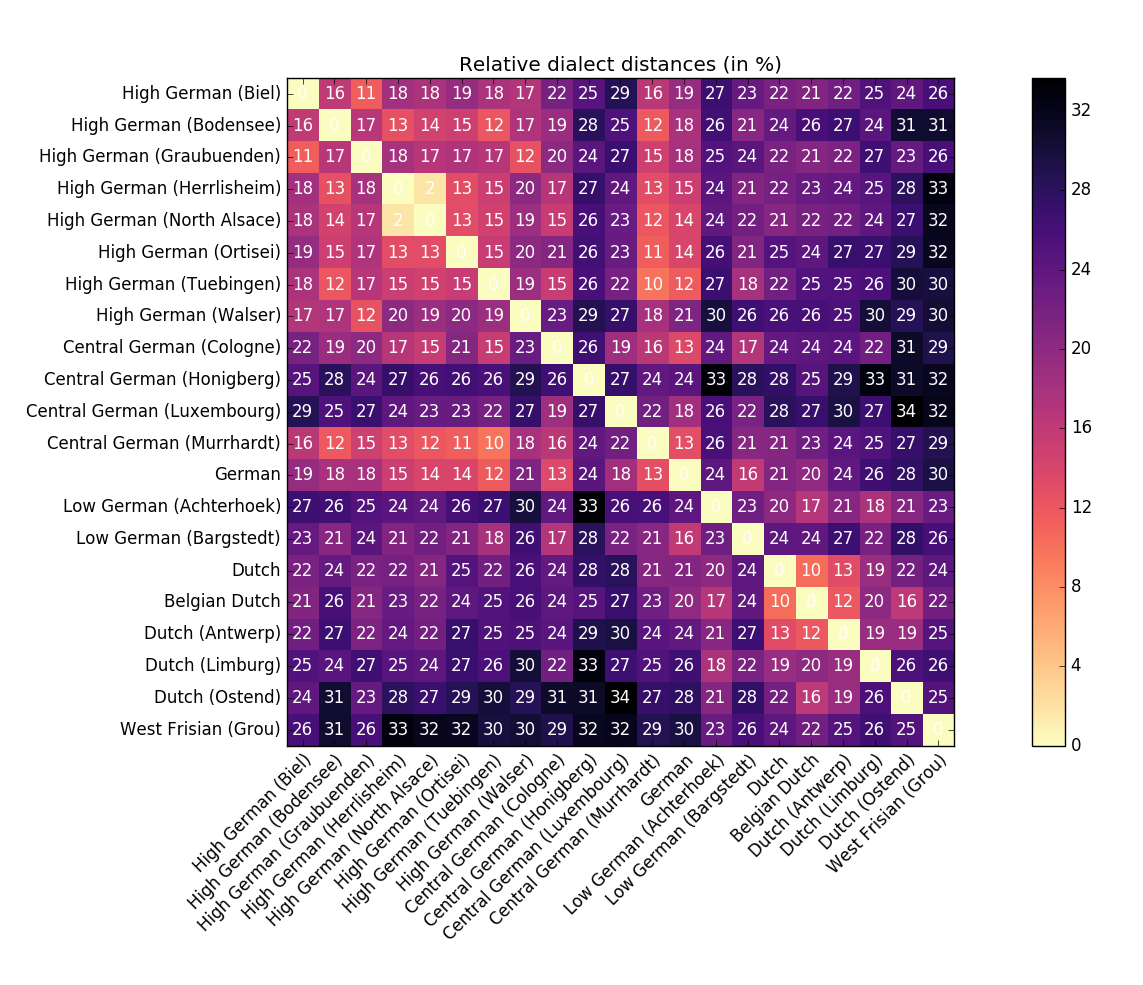
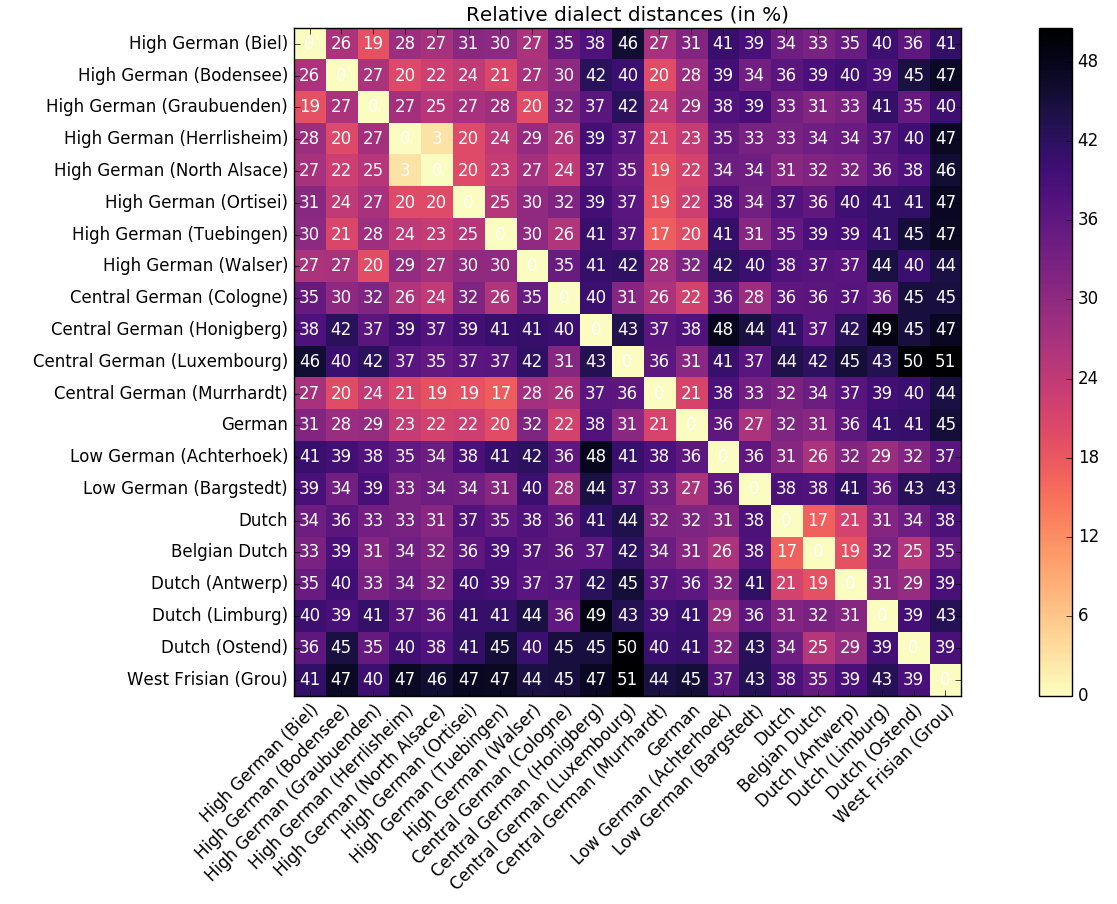
ignore gap-gap alignments for distance scores

diff --git a/extract_features.py b/extract_features.py
@@ -23,6 +23,7 @@ VARIANTS = ['High German (Biel)', 'High German (Bodensee)',
             # 'Yiddish (New York)'
             ]
 ft = panphon.FeatureTable()
+LEN_IPA_VEC = len(ft.fts('e').numeric())
 
 
 def parse_file(filename):
@@ -58,19 +59,37 @@ def tokens2vec(tokens):
     for token in tokens:
         # TODO: diphthongs!
         try:
-            segs += ft.fts(token).numeric()
+            segs.append(ft.fts(token).numeric())
         except AttributeError:
             # Couldn't convert the IPA token,
             # probably because it's an insertion/deletion dummy token.
-            segs += null_segment()
+            segs.append(None)
     return segs
 
 
-def null_segment():
+def distance(dialect1, dialect2):
+    assert len(dialect1) == len(dialect2)
+    len_vecs = 0
+    dist = 0
+    for vec1, vec2 in zip(dialect1, dialect2):
+        if vec1 is None and vec2 is None:
+            continue
+        len_vecs += 1
+        if vec1 is None or vec2 is None:
+            # TODO: should gaps be penalized this heavily?
+            dist += LEN_IPA_VEC
+            continue
+        dist += scipy.spatial.distance.cityblock(vec1, vec2)
+    len_vecs *= LEN_IPA_VEC
+    return dist / len_vecs
+
+
+def numeric_null_segment():
     # TODO better approach?
-    return [0 for _ in range(22)]
+    return [0 for _ in range(LEN_IPA_VEC)]
 
 
+# Represent the dialects as feature vectors.
 entries = {}
 for root, dirs, files in os.walk(DATA_DIR):
     for f in files:
@@ -84,30 +103,27 @@ for root, dirs, files in os.walk(DATA_DIR):
                 except KeyError:
                     entries[e] = subentries[e]
 
+
+# Create a distance matrix.
 n_samples = len(VARIANTS)
-n_features = len(entries[VARIANTS[0]])
-samples = np.zeros([n_samples, n_features])
-
-i = 0
-for e in VARIANTS:
-    samples[i] = np.array(entries[e])
-    i += 1
-
-print(samples.shape)
+samples = [entries[v] for v in VARIANTS]
 
 dist_matrix = []
-
 for i in range(n_samples):
     sample = samples[i]
     dist_matrix.append([])
-    # for j in range(i + 1, n_samples):
     for j in range(n_samples):
-        dist = scipy.spatial.distance.cityblock(sample, samples[j])
-        # similarity = 1 - (dist / n_features)
-        dist_matrix[i].append(dist / n_features)
+        if i == j:
+            dist = 0
+        elif j < i + 1:
+            dist = dist_matrix[j][i]
+        else:
+            dist = distance(sample, samples[j])
+        dist_matrix[i].append(dist)
 
 dist_matrix = np.array(dist_matrix) * 100
 
+# Heat map.
 fig, ax = plt.subplots()
 im = ax.imshow(dist_matrix,
                cmap='magma_r',
@@ -135,12 +151,29 @@ ax.set_title("Relative dialect distances (in %)")
 fig.tight_layout()
 plt.show()
 
+# Flatten the matrix to 2D and replace None segments.
+samples_flat = []
+for dialect in samples:
+    vec_long = []
+    for vec in dialect:
+        if vec is None:
+            vec_long += numeric_null_segment()
+        else:
+            vec_long += vec
+    samples_flat.append(vec_long)
 
+# Convert to NumPy array.
+n_features = len(samples_flat[0])
+samples = np.zeros([n_samples, n_features])
+i = 0
+for entry in samples_flat:
+    samples[i] = np.array(entry)
+    i += 1
+
+# Cluster and show dendrogram.
 linkage_matrix = scipy.cluster.hierarchy.linkage(samples,
                                                  method='average'  # UPGMA
-                                                 # method='ward'
                                                  )
-
 scipy.cluster.hierarchy.dendrogram(
     linkage_matrix,
     labels=VARIANTS,

diff --git a/README.md b/README.md
@@ -1,34 +1,45 @@
 ## Current Data
 
-The BDPA contains a list of 111 cognate sets across 21 German/Dutch dialects, transcribed in IPA, and already aligned. (More details in the ```data``` folder.) It seems like all of the entries were transcribed by a single person and aligned by another.
+The BDPA contains a list of 111 cognate sets across 21 German/Dutch dialects, transcribed in IPA, tokenized (affricates and diphthongs constitute single segments), and already aligned. (More details in the ```data``` folder.) All of the entries were transcribed by a single person and aligned by another.
 
 ### TODO
 
 - Unfortunately, the BDPA contains only two Low German dialects. Check if I can add some of the ones from [Sound Comparisons (Heggarty)](http://www.soundcomparisons.com/#/en/Germanic) (heggartynodatesound).
   - Were they also transcribed by the same person?
-  - They aren't aligned with the other entries. It would be possible however to start the program with an alignment step whose success is measured with the gold standard data.
+  - They aren't aligned with the other entries.
+    - It would be possible however to start the program with an alignment step whose success is measured with the gold standard data.
+    - If I add just one or two dialects, manual alignment might be worthwhile.
 - Possibly also check to what extend I might be able to use data from the Alignments of the Phonetischer Atlas von Deutschland (PAD) (prokic2018alignments), the Indo-European Lexical Cognacy Database (IELex) (dunn2012indo-european), the Morfologische Atlas van de Nederlandse Dialecten (MAND) (goemannodatemorfologische), or the Dynamische Syntactische Atlas van de Nederlandse Dialecten (DynaSAND) (barbiersnodatedynamische). Of course, for all of these, the transcription standards would probably differ from what I currently use.
 - Maybe check if the non-IPA phonetic transcriptions of the Norwegian and Swedish parts of the [Nordic Dialect Corpus](http://www.tekstlab.uio.no/nota/scandiasyn/) are compatible with one another.
 
 ## Current implementation 
 
 [extract_features.py](https://github.com/verenablaschke/dialect-clustering/blob/master/extract_features.py) currently contains a very rough implementation that does the following:
-- Convert the entries into feature vectors using PanPhon, resulting in one very long feature vector per dialect.
+- For each dialect, concatenate all entries (including gap segments from the alignment) and convert the IPA segments into phonetic feature vectors using PanPhon, resulting in one very long feature vector per dialect.
 - Get the Manhattan distance between each pair of dialects to create a distance matrix (visualized with the heatmap).
 - Perform hierarchical clustering on the feature vectors using SciPiy's implementation of the UPGMA algorithm (Unweighted Pair Group Method using Arithmetic averages) (visualized with the dendrogram).
+
+What is interesting is that of the (currently only 2...) Low German dialects, one is grouped with the Dutch variants and the other is part of an otherwise High & Central German cluster.
 
 ### TODO
 
 - Improve the feature vector conversion & distance measure:
-  - Deal with diphthongs.
-  - If two dialects share a gap segment in an aligned entry, don't let that facture into the distance score.
+  [ ] Deal with diphthongs.
+  [x] If two dialects share a gap segment in an aligned entry, don't let that facture into the distance score. Changed the scores in the distance matrix, but didn't change the dendrogram.
+  - Appropriate gap penalization.
 - Try out different distance measures and clustering algorithms:
   - heeringa2006evaluation present and evaluate a bunch of different alignment/distance scoring strategies, such as including n-grams for phonetic context. See also nerbonne1997measuring.
-  - heeringa2004measuring (ch. 6.1.3) compares different clustering algorithms
+  - heeringa2004measuring (ch. 6.1.3) compares different clustering algorithms (and ultimately prefers UPGMA)
   - multi-dimensional scaling (nerbonne2009data-driven, heeringa2004measuring ch. 6.2) and other dimensionality-reduction techniques prior to clustering
   - There are implementations where the focus is also on the features that distinguish dialect groups (prokic2012detecting, nerbonne2006identifying, wieling2011bipartite)
 - Figure out why LingPy crashes when trying to create a dendrogram from the data.
 - All of this is about the number of differences. It would also be interesting to consider the number of regular correspondences vs. unpredicatable correspondences/differences.
+
+## Evaluation
+
+### TODO
+
+- Literature research on (non-statistical) analyses of the German/Dutch dialect landscape. Get some hierarchy that I can compare my tree to?
 
 # References
 
